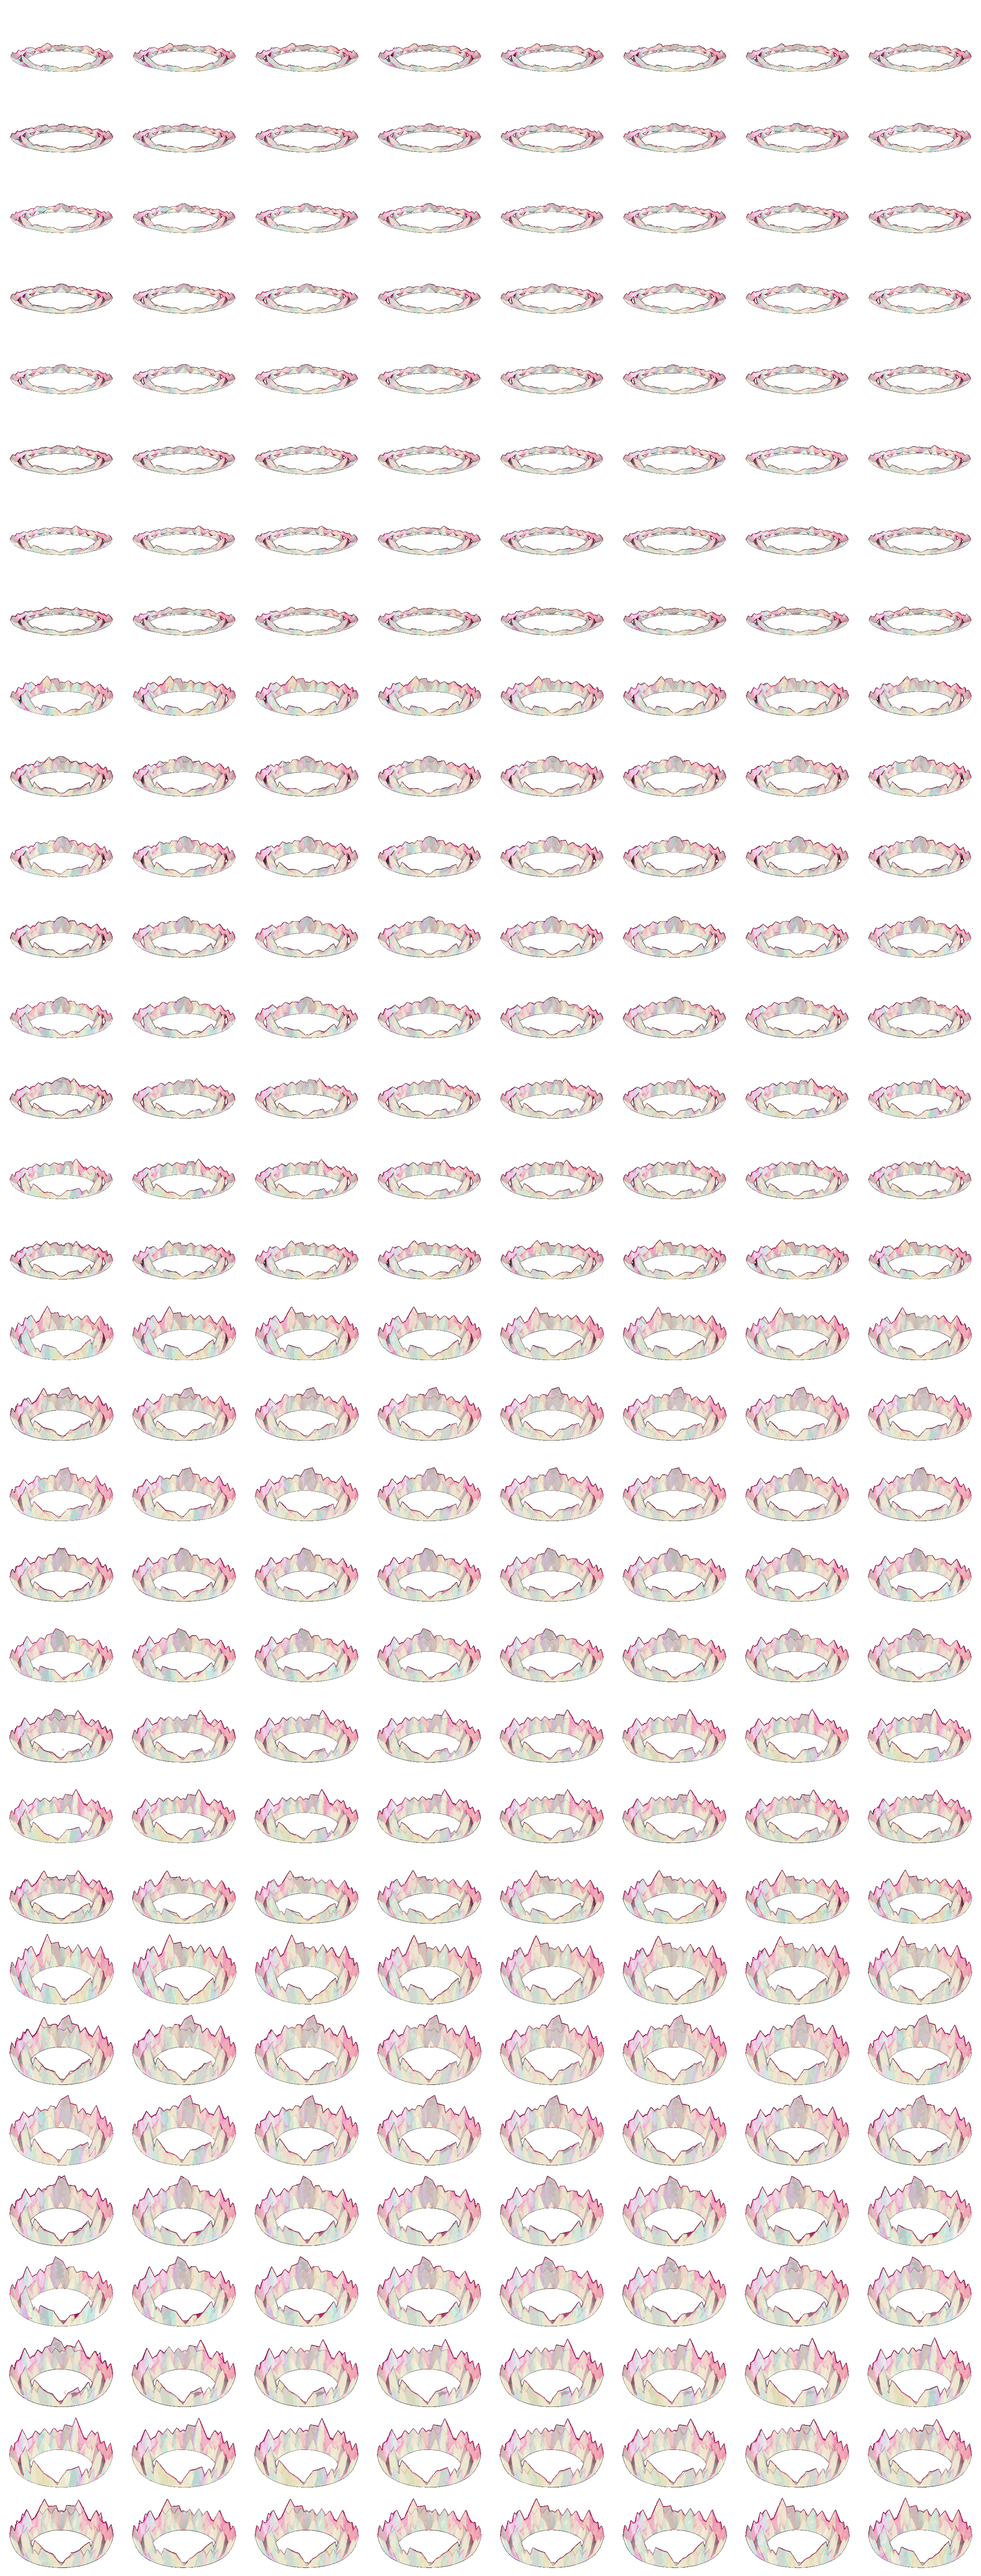
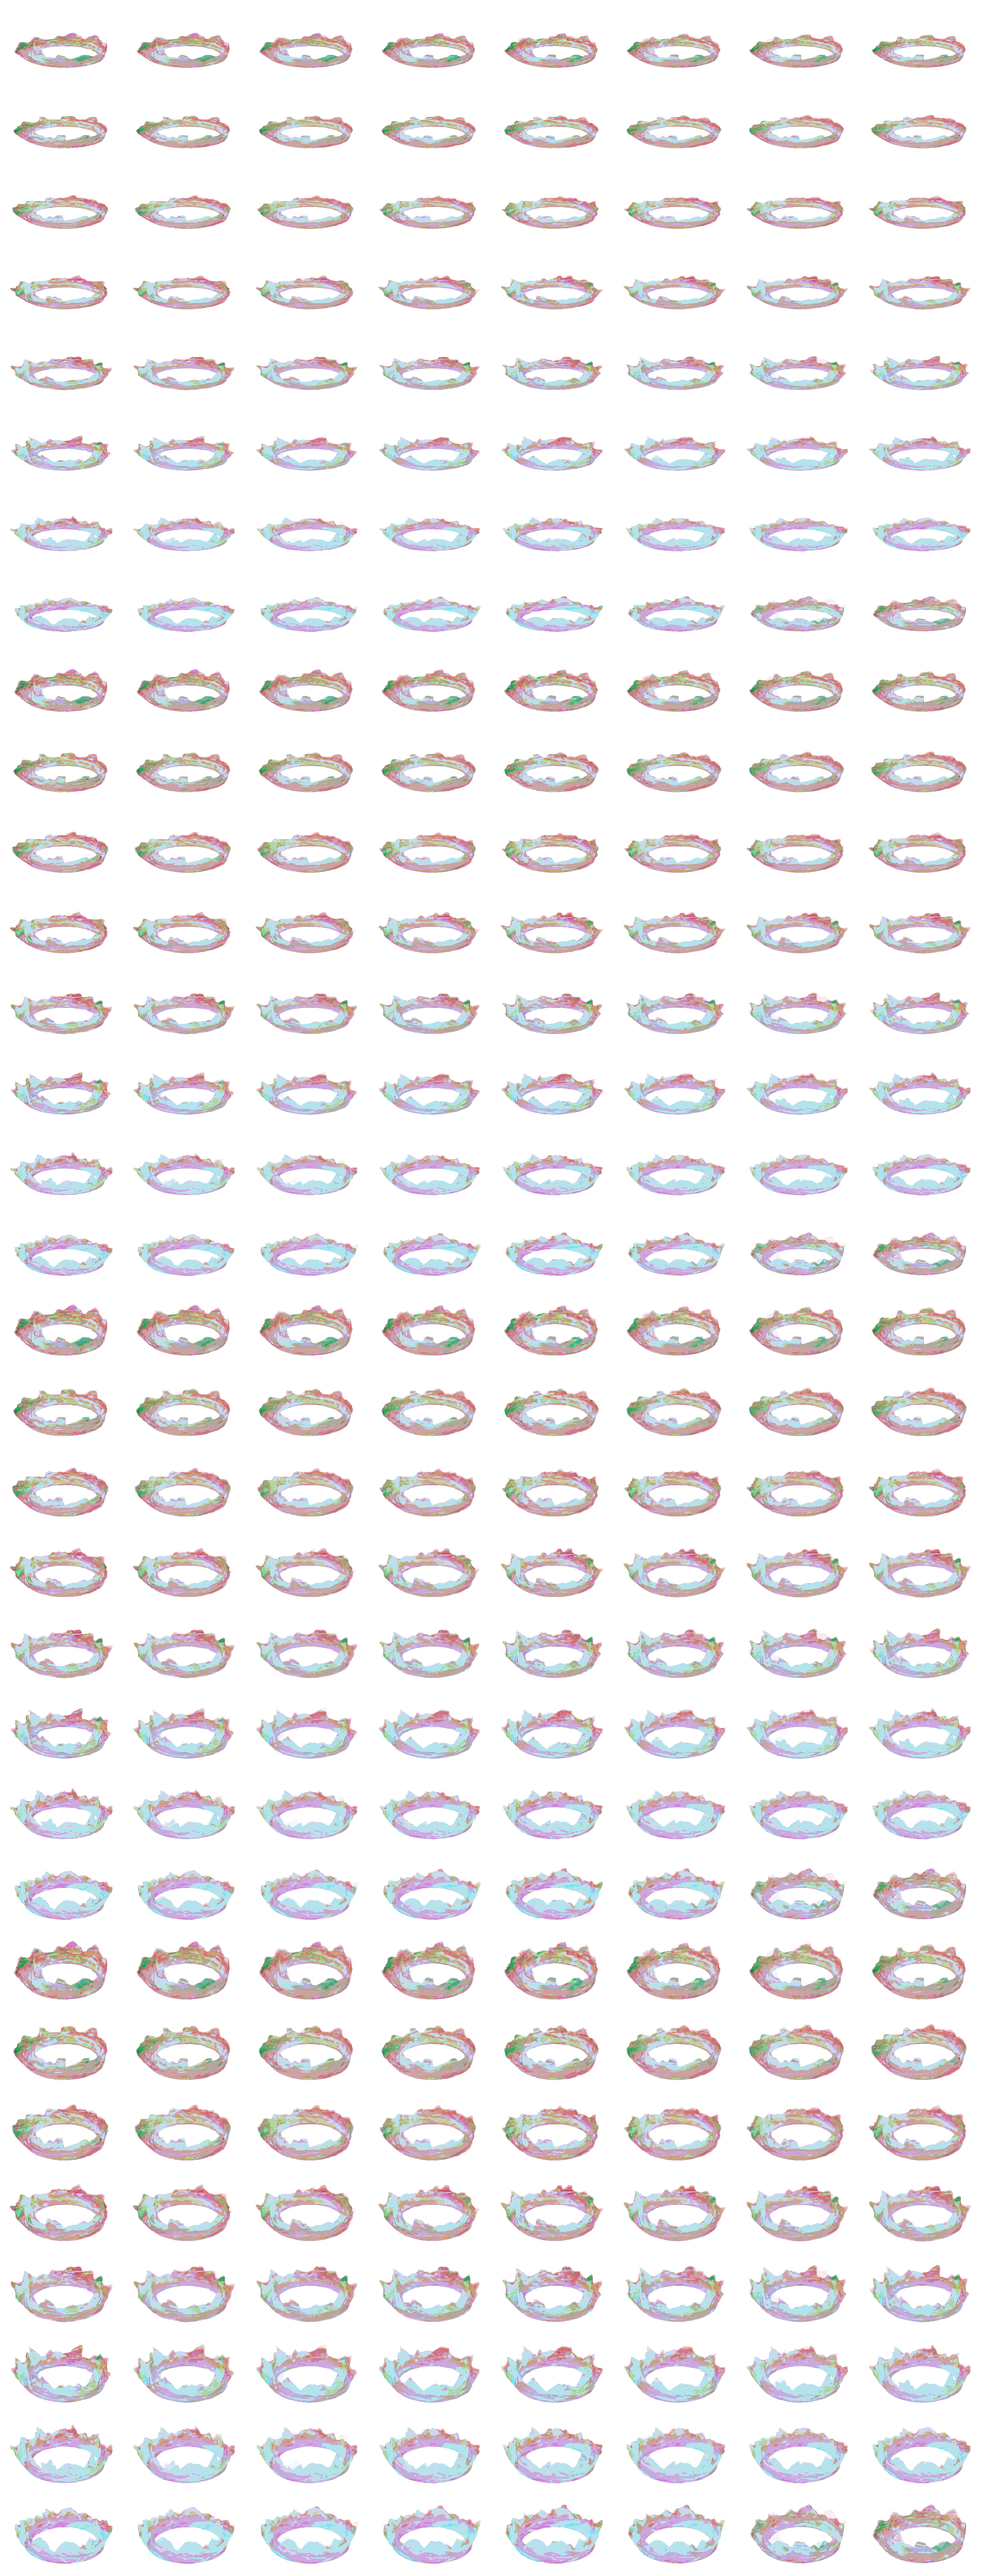
Replace crystal sprites with cleaned reference energy animation

diff --git a/desktop_app/core.py b/desktop_app/core.py
@@ -63,10 +63,17 @@ class CoreWidget(QWidget):
         from PySide6.QtCore import QRectF
         painter=QPainter(self)
         painter.setRenderHint(QPainter.RenderHint.SmoothPixmapTransform)
-        image=self.frames[self.bank*64+int(self.phase)]
+        level = min(3.0, max(0.0, (self.energy - .025) / .975 * 3))
+        lower = int(level)
+        blend = level - lower
+        image=self.frames[lower*64+int(self.phase)]
         width=min(self.width(),self.height()*320/210)
         height=width*210/320
-        painter.drawPixmap(QRectF((self.width()-width)/2,(self.height()-height)/2,width,height), image, QRectF(0,0,320,210))
+        destination = QRectF((self.width()-width)/2,(self.height()-height)/2,width,height)
+        painter.drawPixmap(destination, image, QRectF(0,0,320,210))
+        if blend > .001 and lower < 3:
+            painter.setOpacity(blend)
+            painter.drawPixmap(destination, self.frames[(lower+1)*64+int(self.phase)], QRectF(0,0,320,210))
 
 
 class SystemAudioSpectrum(QThread):

diff --git a/README.md b/README.md
@@ -68,5 +68,7 @@ The desktop continuously plays prepared transparent plasma frames, including in
 idle mode. The asset contains four amplitude banks with 64 motion phases each;
 o live ring geometry or laboratory footage is drawn. The animation timer stops
 when hidden. Request state and optional loopback-audio FFT choose intensity and
-playback speed; the microphone is never opened. Source frames use offline motion
-interpolation; the desktop needs no image-processing libraries.
+playback speed; the microphone is never opened. Source frames are isolated from the supplied animation and cleaned with image
+editing, then interpolated offline. Amplitude banks blend during state changes;
+this is an amplitude-driven animation, not a frequency-accurate spectrogram.
+The desktop needs no image-processing libraries.
